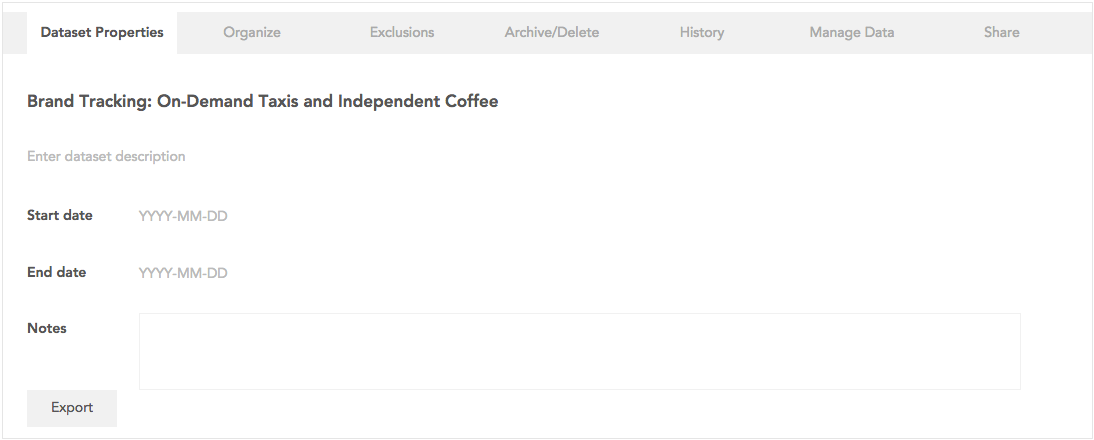
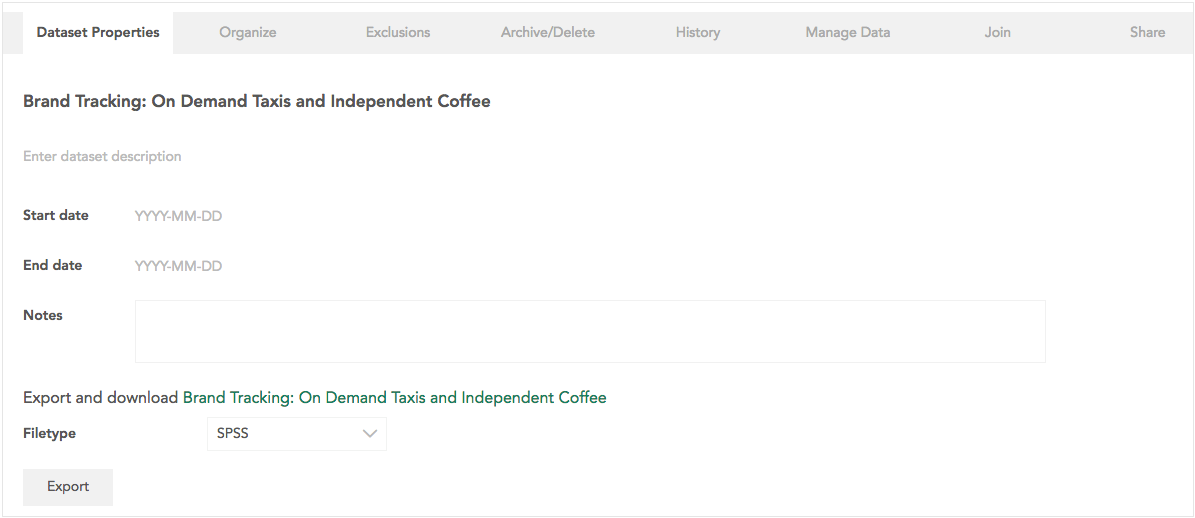
Export and dowload screenshot and doc

diff --git a/crunch/crunch_dataset-properties.md b/crunch/crunch_dataset-properties.md
@@ -17,4 +17,4 @@ You can view and edit the following properties:
 
 **Notes** - If you have more detailed notes about the dataset beyond its description, you can include them here.
 
-**Export** - Export the dataset to an SPSS file. Click once to begin the export – this can take some time for larger datasets. When the export is complete, the button will change from "Export" to an SPSS ".sav" filename. Click again to download the exported file.
+**Export and Download** - Select a format (SPSS or CSV) and click Export to begin a dataset export – this can take some time for larger datasets. When the export is complete, the button will read **Download**. Click it to download the exported file.
